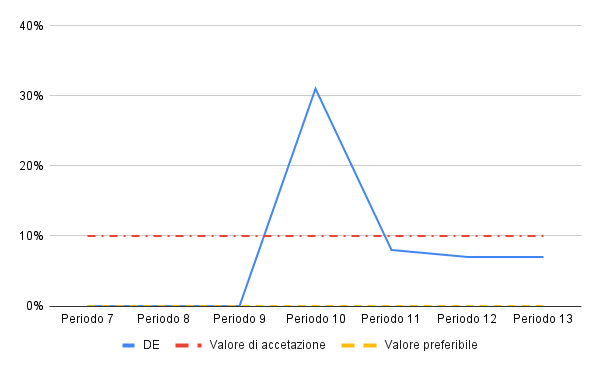
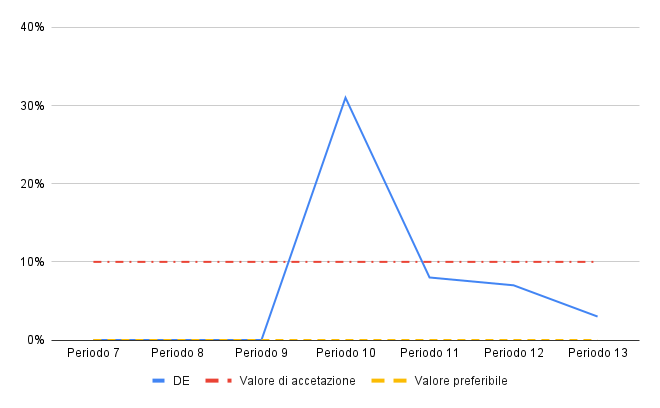
Aggiornamento metriche finali

diff --git a/Documenti_Esterni/Sottosezioni/Piano_di_qualifica/Qualità_Fornitura.tex b/Documenti_Esterni/Sottosezioni/Piano_di_qualifica/Qualità_Fornitura.tex
@@ -159,4 +159,4 @@ In particolare, nell'ultimo periodo, si osserva un incremento del \textit{CPI}\t
 \textbf{RTB}: il grafico mostra come i rischi non previsti siano rimasti costanti durante tutto il progetto. Questo è un buon segno, in quanto indica che il gruppo è stato in grado di gestire i rischi in modo efficace e che non sono emersi nuovi rischi inaspettati.
 
 \vspace{0.2cm}
-\textbf{PB}: il grafico mostra come i nei rimanenti periodi i rischi non previsti siano rimasti costanti. Questo è un buon segno, in quanto indica che il gruppo è stato in grado di gestire i rischi in modo efficace e che non sono emersi nuovi rischi inaspettati.
+\textbf{PB}: Il grafico mostra che, nei periodi successivi, i rischi imprevisti sono rimasti stabili, ad eccezione dell’ultimo periodo. Durante quest’ultimo, si è verificato un rischio non anticipato, che ha causato un incremento minore nei tempi di preparazione per i colloqui previsti per la revisione PB.
